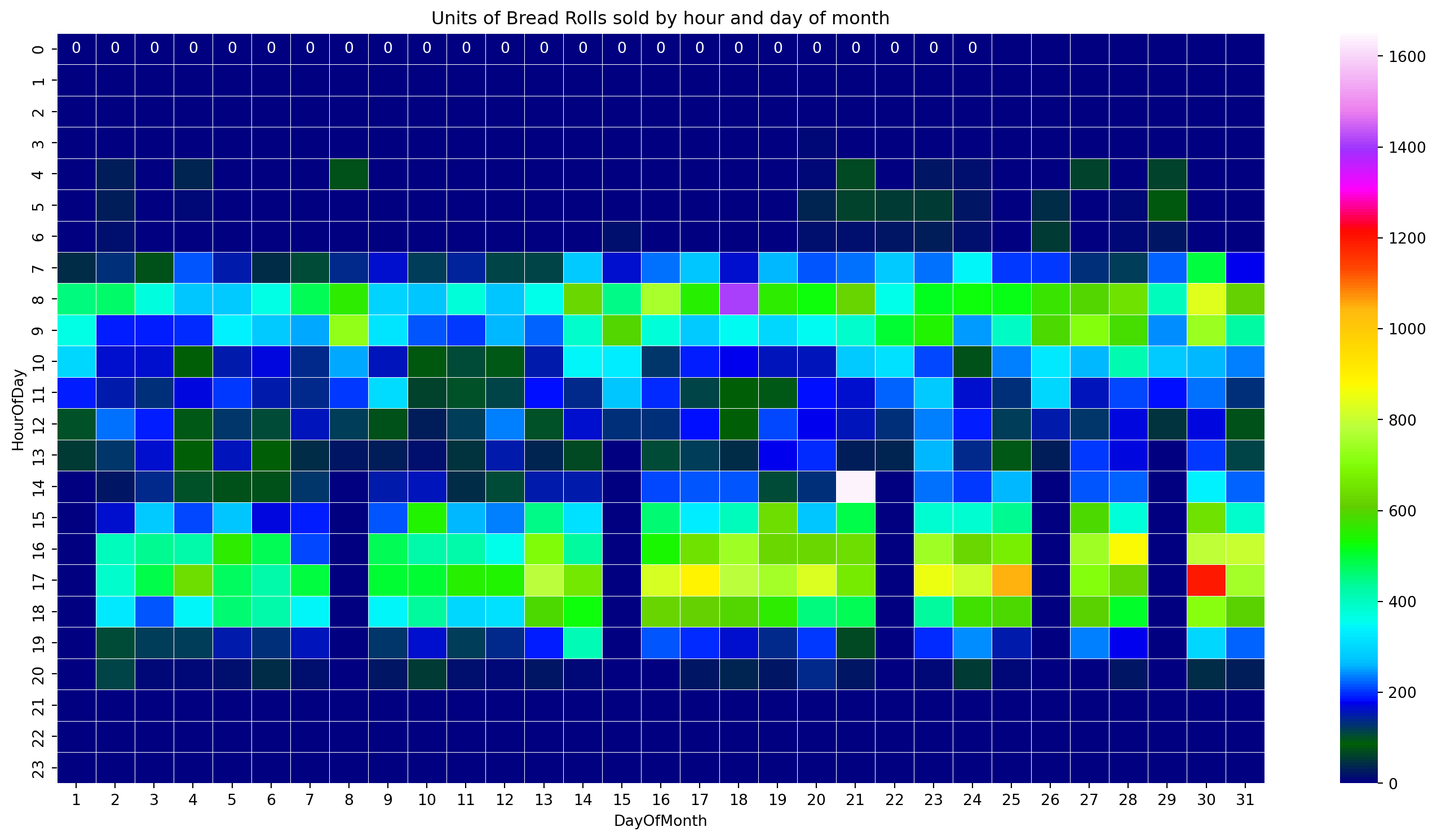
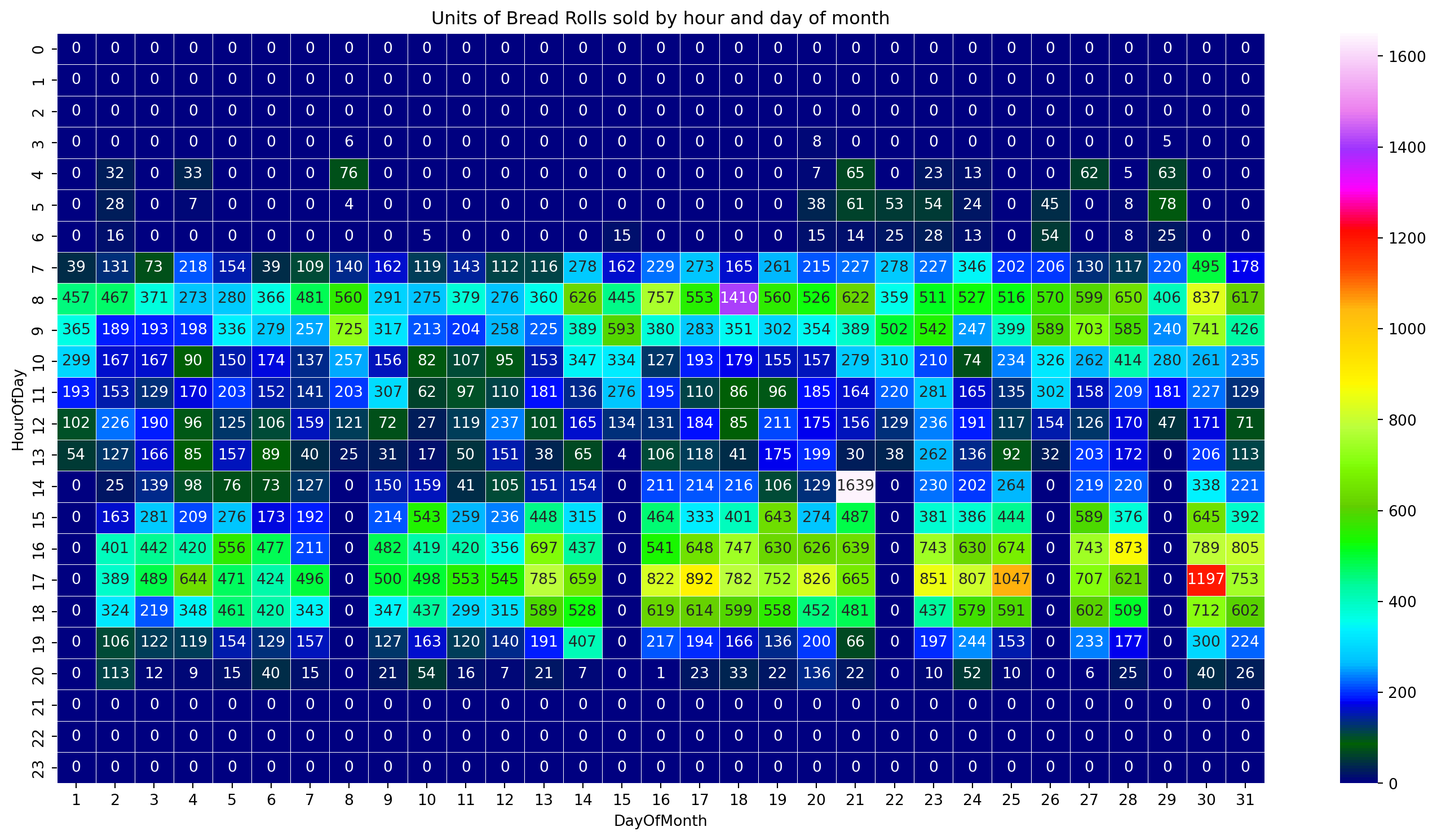
Update changes

diff --git a/docs/23-Projects-Supermarket.html b/docs/23-Projects-Supermarket.html
@@ -348,27 +348,27 @@ Class Discussion
 <section id="reading-and-preprocessing" class="level1">
 <h1>Reading and Preprocessing</h1>
 <p>Let’s read the file with the supermarket transactions data and do some preprocessing tasks. For this task we will use Python <span class="citation" data-cites="python2001">(<a href="#ref-python2001" role="doc-biblioref">Rossum and Jr. 2001</a>)</span>, Pandas <span class="citation" data-cites="pandasmckinney2012">(<a href="#ref-pandasmckinney2012" role="doc-biblioref">McKinney 2012</a>)</span> and Matplotlib <span class="citation" data-cites="matplotlibhunter2007">(<a href="#ref-matplotlibhunter2007" role="doc-biblioref">Hunter 2007</a>)</span> and Seaborn <span class="citation" data-cites="SeabornWaskom2021">(<a href="#ref-SeabornWaskom2021" role="doc-biblioref">Waskom 2021</a>)</span> for visualization. First we import the libraries we need:</p>
-<div id="4d44ece8" class="cell custompython" data-execution_count="1">
+<div id="4ceaf339" class="cell custompython" data-execution_count="1">
 <div class="sourceCode cell-code" id="cb2"><pre class="sourceCode python code-with-copy"><code class="sourceCode python"><span id="cb2-1"><a href="#cb2-1" aria-hidden="true" tabindex="-1"></a><span class="im">import</span> pandas <span class="im">as</span> pd <span class="co"># to represent and process dataframes</span></span>
 <span id="cb2-2"><a href="#cb2-2" aria-hidden="true" tabindex="-1"></a><span class="im">import</span> matplotlib.pyplot <span class="im">as</span> plt <span class="co"># to create some plots and charts</span></span>
 <span id="cb2-3"><a href="#cb2-3" aria-hidden="true" tabindex="-1"></a><span class="im">import</span> seaborn <span class="im">as</span> sns <span class="co"># a different graphics library.</span></span></code><button title="Copy to Clipboard" class="code-copy-button"><i class="bi"></i></button></pre></div>
 </div>
 <p>The type of structure we are dealing with looks like a table or spreadsheet, represented in a file with each row containing fields separated by commas, and it is better represented as a <em>dataframe</em>. Reading a comma-separated value into a dataframe in Python is very easy: we can use a function of the Pandas library to get the file into a data frame, as shown below:</p>
-<div id="8816d814" class="cell custompython" data-execution_count="2">
+<div id="594e4f2f" class="cell custompython" data-execution_count="2">
 <div class="sourceCode cell-code" id="cb3"><pre class="sourceCode python code-with-copy"><code class="sourceCode python"><span id="cb3-1"><a href="#cb3-1" aria-hidden="true" tabindex="-1"></a><span class="co"># Read the data from a file into a dataframe, with proper character encoding</span></span>
 <span id="cb3-2"><a href="#cb3-2" aria-hidden="true" tabindex="-1"></a>supermDF <span class="op">=</span> pd.read_csv(<span class="st">"Resources/Data/SupermarketCSV/transactions.csv"</span>,</span>
 <span id="cb3-3"><a href="#cb3-3" aria-hidden="true" tabindex="-1"></a>                        encoding<span class="op">=</span><span class="st">"iso-8859-1"</span>)</span></code><button title="Copy to Clipboard" class="code-copy-button"><i class="bi"></i></button></pre></div>
 </div>
 <p>The encoding of a text file corresponds to the way characters are stored in a text file. Some tools can identify the encoding automatically, but in some cases the programmer needs to provide it.</p>
 <p>How many records and fields did we just read? The <em>shape</em> of the dataframe can be used to answer this, showing the number of rows and columns.</p>
-<div id="65fe68db" class="cell custompython" data-execution_count="3">
+<div id="d2f9c525" class="cell custompython" data-execution_count="3">
 <div class="sourceCode cell-code" id="cb4"><pre class="sourceCode python code-with-copy"><code class="sourceCode python"><span id="cb4-1"><a href="#cb4-1" aria-hidden="true" tabindex="-1"></a>supermDF.shape</span></code><button title="Copy to Clipboard" class="code-copy-button"><i class="bi"></i></button></pre></div>
 <div class="cell-output cell-output-display" data-execution_count="3">
 <pre><code>(363966, 16)</code></pre>
 </div>
 </div>
 <p>We may need to do some preprocessing for simplicity and convenience. For example, the field <code>Date</code> was read as we will convert the field to a real date/time field.</p>
-<div id="686e0724" class="cell custompython" data-execution_count="4">
+<div id="bd2e2cbe" class="cell custompython" data-execution_count="4">
 <div class="sourceCode cell-code" id="cb6"><pre class="sourceCode python code-with-copy"><code class="sourceCode python"><span id="cb6-1"><a href="#cb6-1" aria-hidden="true" tabindex="-1"></a><span class="co"># Convert the field Date to a string, which is used by pd.to_datetime with a specific</span></span>
 <span id="cb6-2"><a href="#cb6-2" aria-hidden="true" tabindex="-1"></a><span class="co"># format to be converted into an array of datetime object, which is stored in our</span></span>
 <span id="cb6-3"><a href="#cb6-3" aria-hidden="true" tabindex="-1"></a><span class="co"># dataframe using a new column name.</span></span>
@@ -381,7 +381,7 @@ Class Discussion
 <section id="how-many-different-products-does-the-supermarket-sells" class="level2">
 <h2 class="anchored" data-anchor-id="how-many-different-products-does-the-supermarket-sells">How many different products does the supermarket sells?</h2>
 <p>In order to answer this question we would need access to different data: a complete catalogue of the products the supermarket sells. But we can get the answer to <em>how many different products the supermarket sold</em> by looking at the <code>Description</code> field and counting unique values. Here’s how:</p>
-<div id="45cb92c2" class="cell custompython" data-execution_count="5">
+<div id="f6b59c76" class="cell custompython" data-execution_count="5">
 <div class="sourceCode cell-code" id="cb7"><pre class="sourceCode python code-with-copy"><code class="sourceCode python"><span id="cb7-1"><a href="#cb7-1" aria-hidden="true" tabindex="-1"></a><span class="co"># Get the column Description, create a series with the unique values on it, </span></span>
 <span id="cb7-2"><a href="#cb7-2" aria-hidden="true" tabindex="-1"></a><span class="co"># return the length of this series. </span></span>
 <span id="cb7-3"><a href="#cb7-3" aria-hidden="true" tabindex="-1"></a><span class="bu">len</span>(pd.unique(supermDF[<span class="st">'Description'</span>]))</span></code><button title="Copy to Clipboard" class="code-copy-button"><i class="bi"></i></button></pre></div>
@@ -391,7 +391,7 @@ Class Discussion
 </div>
 <p>This one line of code slices the dataframe, selecting only the column/field <code>Description</code> and passes it as an argument to a the function <code>unique</code> of the Pandas library that eliminates all repeated items and returns a list, which then is used as an argument to <code>len</code> that counts the elements on that list.</p>
 <p>Another way to get the number of different products sold by the supermarket is to get a count of occurrences of each item, which can be easily done with a call to <code>value_counts</code> function of a slice of a dataframe:</p>
-<div id="33dd7a47" class="cell custompython" data-execution_count="6">
+<div id="2dea14df" class="cell custompython" data-execution_count="6">
 <div class="sourceCode cell-code" id="cb9"><pre class="sourceCode python code-with-copy"><code class="sourceCode python"><span id="cb9-1"><a href="#cb9-1" aria-hidden="true" tabindex="-1"></a><span class="co"># Show a summary of the counts for all values of the column Description.</span></span>
 <span id="cb9-2"><a href="#cb9-2" aria-hidden="true" tabindex="-1"></a>supermDF[<span class="st">'Description'</span>].value_counts()</span></code><button title="Copy to Clipboard" class="code-copy-button"><i class="bi"></i></button></pre></div>
 <div class="cell-output cell-output-display" data-execution_count="6">
@@ -411,7 +411,7 @@ Name: count, Length: 4791, dtype: int64</code></pre>
 </div>
 </div>
 <p>We can check which are the top ten sellers (by quantity) with:</p>
-<div id="55c98d2a" class="cell custompython" data-execution_count="7">
+<div id="619a488b" class="cell custompython" data-execution_count="7">
 <div class="sourceCode cell-code" id="cb11"><pre class="sourceCode python code-with-copy"><code class="sourceCode python"><span id="cb11-1"><a href="#cb11-1" aria-hidden="true" tabindex="-1"></a><span class="co"># Show the top ten items of the counts for all values of the column Description.</span></span>
 <span id="cb11-2"><a href="#cb11-2" aria-hidden="true" tabindex="-1"></a>supermDF[<span class="st">'Description'</span>].value_counts().head(<span class="dv">10</span>)</span></code><button title="Copy to Clipboard" class="code-copy-button"><i class="bi"></i></button></pre></div>
 <div class="cell-output cell-output-display" data-execution_count="7">
@@ -430,7 +430,7 @@ Name: count, dtype: int64</code></pre>
 </div>
 </div>
 <p>And even filter by quantity using a range:</p>
-<div id="52ff5e1a" class="cell custompython" data-execution_count="8">
+<div id="91efb714" class="cell custompython" data-execution_count="8">
 <div class="sourceCode cell-code" id="cb13"><pre class="sourceCode python code-with-copy"><code class="sourceCode python"><span id="cb13-1"><a href="#cb13-1" aria-hidden="true" tabindex="-1"></a><span class="co"># Store the counts in a series.</span></span>
 <span id="cb13-2"><a href="#cb13-2" aria-hidden="true" tabindex="-1"></a>counts <span class="op">=</span> supermDF[<span class="st">'Description'</span>].value_counts()</span>
 <span id="cb13-3"><a href="#cb13-3" aria-hidden="true" tabindex="-1"></a><span class="co"># Filter those between two values.</span></span>
@@ -474,12 +474,12 @@ Name: count, dtype: int64</code></pre>
 <h2 class="anchored" data-anchor-id="whats-the-average-basket-value">What’s the average basket value?</h2>
 <p>In order to get this information we would need to scan all itens, adding the values for each transaction and calculate the average of these values. But the way that we chose to store the itens makes the first step easier: since all item entries on the dataframe contains information on the transaction it belongs to, we can get all itens where the field <code>itemOrder</code> is one (the first item on that transaction) and use the field <code>TotalDue</code> to get the transaction’s value.</p>
 <p>First we create a subset of our dataframe containing only the first item on the transaction:</p>
-<div id="0723c54e" class="cell custompython" data-execution_count="9">
+<div id="ba4adc7c" class="cell custompython" data-execution_count="9">
 <div class="sourceCode cell-code" id="cb15"><pre class="sourceCode python code-with-copy"><code class="sourceCode python"><span id="cb15-1"><a href="#cb15-1" aria-hidden="true" tabindex="-1"></a><span class="co"># Create a new dataframe with only the first item in each transaction. </span></span>
 <span id="cb15-2"><a href="#cb15-2" aria-hidden="true" tabindex="-1"></a>onlyFirstItems <span class="op">=</span> supermDF.loc[supermDF[<span class="st">'itemOrder'</span>] <span class="op">==</span> <span class="dv">1</span>].copy()</span></code><button title="Copy to Clipboard" class="code-copy-button"><i class="bi"></i></button></pre></div>
 </div>
 <p>Now we can get the average transaction value with:</p>
-<div id="b9df4ab7" class="cell custompython" data-execution_count="10">
+<div id="303b496b" class="cell custompython" data-execution_count="10">
 <div class="sourceCode cell-code" id="cb16"><pre class="sourceCode python code-with-copy"><code class="sourceCode python"><span id="cb16-1"><a href="#cb16-1" aria-hidden="true" tabindex="-1"></a><span class="co"># Prints the mean of all transactions' TotalDue.</span></span>
 <span id="cb16-2"><a href="#cb16-2" aria-hidden="true" tabindex="-1"></a>onlyFirstItems[<span class="st">'TotalDue'</span>].mean()</span></code><button title="Copy to Clipboard" class="code-copy-button"><i class="bi"></i></button></pre></div>
 <div class="cell-output cell-output-display" data-execution_count="10">
@@ -487,7 +487,7 @@ Name: count, dtype: int64</code></pre>
 </div>
 </div>
 <p>We can even have some fun with subsets of the dataframe:</p>
-<div id="d64d15bd" class="cell custompython" data-execution_count="11">
+<div id="277dffe5" class="cell custompython" data-execution_count="11">
 <div class="sourceCode cell-code" id="cb18"><pre class="sourceCode python code-with-copy"><code class="sourceCode python"><span id="cb18-1"><a href="#cb18-1" aria-hidden="true" tabindex="-1"></a><span class="co"># Get the mean of all transactions' TotalDue.</span></span>
 <span id="cb18-2"><a href="#cb18-2" aria-hidden="true" tabindex="-1"></a>ts1 <span class="op">=</span> onlyFirstItems.loc[onlyFirstItems[<span class="st">'StoreID'</span>] <span class="op">==</span> <span class="dv">1</span>,<span class="st">'TotalDue'</span>].mean()</span>
 <span id="cb18-3"><a href="#cb18-3" aria-hidden="true" tabindex="-1"></a>ts2 <span class="op">=</span> onlyFirstItems.loc[onlyFirstItems[<span class="st">'StoreID'</span>] <span class="op">==</span> <span class="dv">2</span>,<span class="st">'TotalDue'</span>].mean()</span>
@@ -500,7 +500,7 @@ Name: count, dtype: int64</code></pre>
 </div>
 </div>
 <p>As expected there isn’t an average value for sales in the store number 4, since it does not exist:</p>
-<div id="67602fbf" class="cell custompython" data-execution_count="12">
+<div id="0a5de97b" class="cell custompython" data-execution_count="12">
 <div class="sourceCode cell-code" id="cb20"><pre class="sourceCode python code-with-copy"><code class="sourceCode python"><span id="cb20-1"><a href="#cb20-1" aria-hidden="true" tabindex="-1"></a><span class="co"># Print a series with all unique values for StoreID.</span></span>
 <span id="cb20-2"><a href="#cb20-2" aria-hidden="true" tabindex="-1"></a>pd.unique(supermDF[<span class="st">'StoreID'</span>])</span></code><button title="Copy to Clipboard" class="code-copy-button"><i class="bi"></i></button></pre></div>
 <div class="cell-output cell-output-display" data-execution_count="12">
@@ -514,7 +514,7 @@ Name: count, dtype: int64</code></pre>
 <p>The code <code>onlyFirstItems.loc[onlyFirstItems['StoreID'] == '0002']</code> returns an empty dataframe. Verify and explain the reason.</p>
 </div>
 <p>We can also plot a simple histogram showing the distribution of the total values for the baskets/transactions. The key command is <code>plt.hist</code> that creates a histogram using the values of the <code>TotalDue</code> field:</p>
-<div id="9487e3d9" class="cell custompython" data-execution_count="13">
+<div id="8d9a98e4" class="cell custompython" data-execution_count="13">
 <div class="sourceCode cell-code" id="cb22"><pre class="sourceCode python code-with-copy"><code class="sourceCode python"><span id="cb22-1"><a href="#cb22-1" aria-hidden="true" tabindex="-1"></a><span class="co"># Plot the histogram of TotalDue with 20 bins.</span></span>
 <span id="cb22-2"><a href="#cb22-2" aria-hidden="true" tabindex="-1"></a>plt.hist(onlyFirstItems[<span class="st">'TotalDue'</span>], bins<span class="op">=</span><span class="dv">20</span>)<span class="op">;</span></span>
 <span id="cb22-3"><a href="#cb22-3" aria-hidden="true" tabindex="-1"></a><span class="co"># Set some plot parameters.</span></span>
@@ -534,7 +534,7 @@ Name: count, dtype: int64</code></pre>
 </div>
 <p>This can’t be right – almost all transactions’ values are clumped together below 25.000 reais and the X axis indicates the existence of a transaction of around half a million reais. This is not consistent with what is expected of sales of a small supermarket.</p>
 <p>Let’s print the top ten transactions by value:</p>
-<div id="14a0077d" class="cell custompython" data-execution_count="14">
+<div id="e5c4dcfe" class="cell custompython" data-execution_count="14">
 <div class="sourceCode cell-code" id="cb23"><pre class="sourceCode python code-with-copy"><code class="sourceCode python"><span id="cb23-1"><a href="#cb23-1" aria-hidden="true" tabindex="-1"></a><span class="co"># Create a list of columns we want to show.</span></span>
 <span id="cb23-2"><a href="#cb23-2" aria-hidden="true" tabindex="-1"></a>fields <span class="op">=</span> [<span class="st">'TransactionID'</span>,<span class="st">'TotalDue'</span>,<span class="st">'TotalPaid'</span>,<span class="st">'Change'</span>,<span class="st">'Status'</span>]</span>
 <span id="cb23-3"><a href="#cb23-3" aria-hidden="true" tabindex="-1"></a><span class="co"># Print the top 10 largest TotalDue values with the fields we chose.</span></span>
@@ -675,7 +675,7 @@ Name: count, dtype: int64</code></pre>
 <p>Are all those transactions paid for with cash?</p>
 </div>
 <p>Let’s recreate the histogram using <code>TotalPaid</code> but with more bins and a log Y axis this time:</p>
-<div id="8573ec90" class="cell custompython" data-execution_count="15">
+<div id="a814a56c" class="cell custompython" data-execution_count="15">
 <div class="sourceCode cell-code" id="cb24"><pre class="sourceCode python code-with-copy"><code class="sourceCode python"><span id="cb24-1"><a href="#cb24-1" aria-hidden="true" tabindex="-1"></a><span class="im">import</span> matplotlib.ticker <span class="im">as</span> ticker <span class="co"># Required to format the Y axis.</span></span>
 <span id="cb24-2"><a href="#cb24-2" aria-hidden="true" tabindex="-1"></a><span class="co"># Plot the histogram of TotalDue with 50 bins.</span></span>
 <span id="cb24-3"><a href="#cb24-3" aria-hidden="true" tabindex="-1"></a>plt.hist(onlyFirstItems[<span class="st">'TotalPaid'</span>], bins<span class="op">=</span><span class="dv">50</span>)<span class="op">;</span></span>
@@ -700,7 +700,7 @@ Name: count, dtype: int64</code></pre>
 </div>
 </div>
 <p>This is better, although we can see that there is still one transaction with value above 800 reais. Let’s take a closer look at this transaction.</p>
-<div id="fefec49c" class="cell custompython" data-execution_count="16">
+<div id="b02d1b57" class="cell custompython" data-execution_count="16">
 <div class="sourceCode cell-code" id="cb25"><pre class="sourceCode python code-with-copy"><code class="sourceCode python"><span id="cb25-1"><a href="#cb25-1" aria-hidden="true" tabindex="-1"></a><span class="co"># Select only some fields for displaying.</span></span>
 <span id="cb25-2"><a href="#cb25-2" aria-hidden="true" tabindex="-1"></a>fields <span class="op">=</span> [<span class="st">'TransactionID'</span>,<span class="st">'Description'</span>,<span class="st">'UnitPrice'</span>,<span class="st">'Quantity'</span>,<span class="st">'Amount'</span>]</span>
 <span id="cb25-3"><a href="#cb25-3" aria-hidden="true" tabindex="-1"></a><span class="co"># Filter the dataframe locating only rows where TotalPaid is &gt;= 800, then sort the</span></span>
@@ -831,7 +831,7 @@ Name: count, dtype: int64</code></pre>
 <h2 class="anchored" data-anchor-id="are-there-patterns-on-the-amounts-paid-by-the-costumers">Are there patterns on the amounts paid by the costumers?</h2>
 <p>How many items our costumers buy in each transaction? Are there patterns or distributions on this amount? Let’s explore!</p>
 <p>First let’s see a histogram of the distribution of the number of items per transaction. In the way our data is organized, we need to infer this number since it is not explicit. To count the number of items per transaction we can group the dataframe by <code>TransactionID</code> and get the number of records in each group:</p>
-<div id="9f95b7ed" class="cell custompython" data-execution_count="17">
+<div id="b843f042" class="cell custompython" data-execution_count="17">
 <div class="sourceCode cell-code" id="cb26"><pre class="sourceCode python code-with-copy"><code class="sourceCode python"><span id="cb26-1"><a href="#cb26-1" aria-hidden="true" tabindex="-1"></a><span class="co"># Group records by TransactionID, select TransactionID to extract a metric (size).</span></span>
 <span id="cb26-2"><a href="#cb26-2" aria-hidden="true" tabindex="-1"></a>itemsIT <span class="op">=</span> supermDF.groupby(<span class="st">'TransactionID'</span>)[<span class="st">'TransactionID'</span>].transform(<span class="st">'size'</span>)</span>
 <span id="cb26-3"><a href="#cb26-3" aria-hidden="true" tabindex="-1"></a><span class="co"># Add it as a new column.</span></span>
@@ -840,7 +840,7 @@ Name: count, dtype: int64</code></pre>
 <span id="cb26-6"><a href="#cb26-6" aria-hidden="true" tabindex="-1"></a>onlyFirstItems <span class="op">=</span> supermDF.loc[supermDF[<span class="st">'itemOrder'</span>] <span class="op">==</span> <span class="dv">1</span>].copy()</span></code><button title="Copy to Clipboard" class="code-copy-button"><i class="bi"></i></button></pre></div>
 </div>
 <p>Then we can do a histogram to show the distribution of items per transaction:</p>
-<div id="abd90027" class="cell custompython" data-execution_count="18">
+<div id="ffafcb62" class="cell custompython" data-execution_count="18">
 <div class="sourceCode cell-code" id="cb27"><pre class="sourceCode python code-with-copy"><code class="sourceCode python"><span id="cb27-1"><a href="#cb27-1" aria-hidden="true" tabindex="-1"></a><span class="co"># Plot the histogram of TotalDue with 50 bins.</span></span>
 <span id="cb27-2"><a href="#cb27-2" aria-hidden="true" tabindex="-1"></a>plt.hist(onlyFirstItems[<span class="st">'itemsInTransaction'</span>], bins<span class="op">=</span><span class="dv">50</span>)<span class="op">;</span></span>
 <span id="cb27-3"><a href="#cb27-3" aria-hidden="true" tabindex="-1"></a><span class="co"># Set some plot parameters.</span></span>
@@ -871,7 +871,7 @@ Name: count, dtype: int64</code></pre>
 <p>To count the number of items per transaction we could also get the maximum value for each <code>itemOrder</code> with the dataframe grouped by <code>TransactionID</code>. Try it!</p>
 </div>
 <p>We expect a sort of correlation between the number of items in a transaction and its total cost (<code>TotalPaid</code>). Let’s do a quick XY (or scatter) plot to verify this:</p>
-<div id="dc89e4c5" class="cell custompython" data-execution_count="19">
+<div id="9f0ed864" class="cell custompython" data-execution_count="19">
 <div class="sourceCode cell-code" id="cb28"><pre class="sourceCode python code-with-copy"><code class="sourceCode python"><span id="cb28-1"><a href="#cb28-1" aria-hidden="true" tabindex="-1"></a><span class="co"># Create the scatter plot with X=itemsInTransaction abnd Y=TotalPaid</span></span>
 <span id="cb28-2"><a href="#cb28-2" aria-hidden="true" tabindex="-1"></a>plt.scatter(onlyFirstItems[<span class="st">'itemsInTransaction'</span>],onlyFirstItems[<span class="st">'TotalPaid'</span>])</span>
 <span id="cb28-3"><a href="#cb28-3" aria-hidden="true" tabindex="-1"></a><span class="co"># Set title and axes labels.</span></span>
@@ -889,7 +889,7 @@ Name: count, dtype: int64</code></pre>
 </div>
 </div>
 <p>Let’s enhance the plot with a linear regression line and confidence interval. The seaborn <span class="citation" data-cites="SeabornWaskom2021">(<a href="#ref-SeabornWaskom2021" role="doc-biblioref">Waskom 2021</a>)</span> library has a simple method for that:</p>
-<div id="404ce1ff" class="cell custompython" data-execution_count="20">
+<div id="7f02c6e1" class="cell custompython" data-execution_count="20">
 <div class="sourceCode cell-code" id="cb29"><pre class="sourceCode python code-with-copy"><code class="sourceCode python"><span id="cb29-1"><a href="#cb29-1" aria-hidden="true" tabindex="-1"></a><span class="co"># Create the X and Y series (to make next commands shorter).</span></span>
 <span id="cb29-2"><a href="#cb29-2" aria-hidden="true" tabindex="-1"></a>X <span class="op">=</span> onlyFirstItems[<span class="st">"itemsInTransaction"</span>]</span>
 <span id="cb29-3"><a href="#cb29-3" aria-hidden="true" tabindex="-1"></a>Y <span class="op">=</span> onlyFirstItems[<span class="st">"TotalPaid"</span>]</span>
@@ -917,25 +917,23 @@ Name: count, dtype: int64</code></pre>
 <p>The regression line may be heavily influenced by the transactions with only a few items or with a low paymend due. Redo the plot but using only transactions with total above a cutoff, or with transactions with more than a specific number of items, or both.</p>
 </div>
 <p>Are those transactions paid by cash? Can we see any pattern or outlier on the payment method? Seaborn can use a discrete column as a color to help discriminate the points, let’s color the plot points using the payment method:</p>
-<div id="e96c2591" class="cell custompython" data-execution_count="21">
-<div class="sourceCode cell-code" id="cb30"><pre class="sourceCode python code-with-copy"><code class="sourceCode python"><span id="cb30-1"><a href="#cb30-1" aria-hidden="true" tabindex="-1"></a><span class="co"># Set the number of figure in inches.</span></span>
-<span id="cb30-2"><a href="#cb30-2" aria-hidden="true" tabindex="-1"></a>plt.figure(figsize<span class="op">=</span>(<span class="dv">12</span>, <span class="dv">8</span>)) </span>
-<span id="cb30-3"><a href="#cb30-3" aria-hidden="true" tabindex="-1"></a><span class="co"># Create the X, Y and points' color series (to make next commands shorter).</span></span>
-<span id="cb30-4"><a href="#cb30-4" aria-hidden="true" tabindex="-1"></a>X <span class="op">=</span> onlyFirstItems[<span class="st">"itemsInTransaction"</span>]</span>
-<span id="cb30-5"><a href="#cb30-5" aria-hidden="true" tabindex="-1"></a>Y <span class="op">=</span> onlyFirstItems[<span class="st">"TotalPaid"</span>]</span>
-<span id="cb30-6"><a href="#cb30-6" aria-hidden="true" tabindex="-1"></a>PM <span class="op">=</span> onlyFirstItems[<span class="st">"PaymentMethod"</span>]</span>
-<span id="cb30-7"><a href="#cb30-7" aria-hidden="true" tabindex="-1"></a><span class="co"># Plot a regression plot with transparency in the data points.</span></span>
-<span id="cb30-8"><a href="#cb30-8" aria-hidden="true" tabindex="-1"></a>sns.scatterplot(x<span class="op">=</span>X,y<span class="op">=</span>Y,hue<span class="op">=</span>PM)</span>
-<span id="cb30-9"><a href="#cb30-9" aria-hidden="true" tabindex="-1"></a><span class="co"># Set title and axes labels</span></span>
-<span id="cb30-10"><a href="#cb30-10" aria-hidden="true" tabindex="-1"></a>plt.title(<span class="st">'Scatter Plot of Number of Items in Cart versus Total Paid'</span>)</span>
-<span id="cb30-11"><a href="#cb30-11" aria-hidden="true" tabindex="-1"></a>plt.xlabel(<span class="st">'Number of Items in Cart'</span>)</span>
-<span id="cb30-12"><a href="#cb30-12" aria-hidden="true" tabindex="-1"></a>plt.ylabel(<span class="st">'Total Paid'</span>)</span>
-<span id="cb30-13"><a href="#cb30-13" aria-hidden="true" tabindex="-1"></a><span class="co"># Show the plot.</span></span>
-<span id="cb30-14"><a href="#cb30-14" aria-hidden="true" tabindex="-1"></a>plt.show()</span></code><button title="Copy to Clipboard" class="code-copy-button"><i class="bi"></i></button></pre></div>
+<div id="96497fd0" class="cell custompython" data-execution_count="21">
+<div class="sourceCode cell-code" id="cb30"><pre class="sourceCode python code-with-copy"><code class="sourceCode python"><span id="cb30-1"><a href="#cb30-1" aria-hidden="true" tabindex="-1"></a><span class="co"># Create the X, Y and points' color series (to make next commands shorter).</span></span>
+<span id="cb30-2"><a href="#cb30-2" aria-hidden="true" tabindex="-1"></a>X <span class="op">=</span> onlyFirstItems[<span class="st">"itemsInTransaction"</span>]</span>
+<span id="cb30-3"><a href="#cb30-3" aria-hidden="true" tabindex="-1"></a>Y <span class="op">=</span> onlyFirstItems[<span class="st">"TotalPaid"</span>]</span>
+<span id="cb30-4"><a href="#cb30-4" aria-hidden="true" tabindex="-1"></a>PM <span class="op">=</span> onlyFirstItems[<span class="st">"PaymentMethod"</span>]</span>
+<span id="cb30-5"><a href="#cb30-5" aria-hidden="true" tabindex="-1"></a><span class="co"># Plot a regression plot with transparency in the data points.</span></span>
+<span id="cb30-6"><a href="#cb30-6" aria-hidden="true" tabindex="-1"></a>sns.scatterplot(x<span class="op">=</span>X,y<span class="op">=</span>Y,hue<span class="op">=</span>PM)</span>
+<span id="cb30-7"><a href="#cb30-7" aria-hidden="true" tabindex="-1"></a><span class="co"># Set title and axes labels</span></span>
+<span id="cb30-8"><a href="#cb30-8" aria-hidden="true" tabindex="-1"></a>plt.title(<span class="st">'Scatter Plot of Number of Items in Cart versus Total Paid'</span>)</span>
+<span id="cb30-9"><a href="#cb30-9" aria-hidden="true" tabindex="-1"></a>plt.xlabel(<span class="st">'Number of Items in Cart'</span>)</span>
+<span id="cb30-10"><a href="#cb30-10" aria-hidden="true" tabindex="-1"></a>plt.ylabel(<span class="st">'Total Paid'</span>)</span>
+<span id="cb30-11"><a href="#cb30-11" aria-hidden="true" tabindex="-1"></a><span class="co"># Show the plot.</span></span>
+<span id="cb30-12"><a href="#cb30-12" aria-hidden="true" tabindex="-1"></a>plt.show()</span></code><button title="Copy to Clipboard" class="code-copy-button"><i class="bi"></i></button></pre></div>
 <div class="cell-output cell-output-display">
 <div>
 <figure class="figure">
-<p><img src="23-Projects-Supermarket_files/figure-html/cell-22-output-1.png" width="965" height="671" class="figure-img"></p>
+<p><img src="23-Projects-Supermarket_files/figure-html/cell-22-output-1.png" width="593" height="449" class="figure-img"></p>
 </figure>
 </div>
 </div>
@@ -947,7 +945,7 @@ Name: count, dtype: int64</code></pre>
 <p>There is a payment category without a title. See how many transactions are in this situation and propose a way to deal with this data.</p>
 </div>
 <p>That wasn’t very useful, since there are many options of payments and we would like to aggregate them. Let’s create a new column on our dataframe to represent a simplified payment method.</p>
-<div id="f4eda6e2" class="cell custompython" data-execution_count="22">
+<div id="f6f1ac96" class="cell custompython" data-execution_count="22">
 <div class="sourceCode cell-code" id="cb31"><pre class="sourceCode python code-with-copy"><code class="sourceCode python"><span id="cb31-1"><a href="#cb31-1" aria-hidden="true" tabindex="-1"></a><span class="co"># A simple function that simply the categories of payment method.</span></span>
 <span id="cb31-2"><a href="#cb31-2" aria-hidden="true" tabindex="-1"></a><span class="kw">def</span> simplifyPayment(paymethod):</span>
 <span id="cb31-3"><a href="#cb31-3" aria-hidden="true" tabindex="-1"></a>    <span class="cf">if</span> paymethod.startswith(<span class="st">"Dinheiro"</span>):</span>
@@ -963,7 +961,7 @@ Name: count, dtype: int64</code></pre>
 <span id="cb31-13"><a href="#cb31-13" aria-hidden="true" tabindex="-1"></a>    onlyFirstItems[<span class="st">'PaymentMethod'</span>].<span class="bu">apply</span>(simplifyPayment)      </span></code><button title="Copy to Clipboard" class="code-copy-button"><i class="bi"></i></button></pre></div>
 </div>
 <p>With this new column we can plot a more informative scatter plot:</p>
-<div id="3d00c6a9" class="cell custompython" data-execution_count="23">
+<div id="e05e1727" class="cell custompython" data-execution_count="23">
 <div class="sourceCode cell-code" id="cb32"><pre class="sourceCode python code-with-copy"><code class="sourceCode python"><span id="cb32-1"><a href="#cb32-1" aria-hidden="true" tabindex="-1"></a><span class="co"># We need a palette - a mapping from names to colors.</span></span>
 <span id="cb32-2"><a href="#cb32-2" aria-hidden="true" tabindex="-1"></a>color_mapping <span class="op">=</span> {</span>
 <span id="cb32-3"><a href="#cb32-3" aria-hidden="true" tabindex="-1"></a>    <span class="st">'Dinheiro'</span>: <span class="st">'yellowgreen'</span>,</span>
@@ -971,29 +969,27 @@ Name: count, dtype: int64</code></pre>
 <span id="cb32-5"><a href="#cb32-5" aria-hidden="true" tabindex="-1"></a>    <span class="st">'Cheque'</span>  : <span class="st">'magenta'</span>,</span>
 <span id="cb32-6"><a href="#cb32-6" aria-hidden="true" tabindex="-1"></a>    <span class="st">'Outros'</span>  : <span class="st">'lightgrey'</span></span>
 <span id="cb32-7"><a href="#cb32-7" aria-hidden="true" tabindex="-1"></a>}</span>
-<span id="cb32-8"><a href="#cb32-8" aria-hidden="true" tabindex="-1"></a><span class="co"># Set the number of figure in inches.</span></span>
-<span id="cb32-9"><a href="#cb32-9" aria-hidden="true" tabindex="-1"></a>plt.figure(figsize<span class="op">=</span>(<span class="dv">12</span>, <span class="dv">8</span>)) </span>
-<span id="cb32-10"><a href="#cb32-10" aria-hidden="true" tabindex="-1"></a><span class="co"># Create the X, Y and points' color series (to make next commands shorter).</span></span>
-<span id="cb32-11"><a href="#cb32-11" aria-hidden="true" tabindex="-1"></a>X <span class="op">=</span> onlyFirstItems[<span class="st">"itemsInTransaction"</span>]</span>
-<span id="cb32-12"><a href="#cb32-12" aria-hidden="true" tabindex="-1"></a>Y <span class="op">=</span> onlyFirstItems[<span class="st">"TotalPaid"</span>]</span>
-<span id="cb32-13"><a href="#cb32-13" aria-hidden="true" tabindex="-1"></a>col <span class="op">=</span> onlyFirstItems[<span class="st">"SimplifiedPaymentMethod"</span>]</span>
-<span id="cb32-14"><a href="#cb32-14" aria-hidden="true" tabindex="-1"></a><span class="co"># Plot a scatter plot with the data points and the new palette.</span></span>
-<span id="cb32-15"><a href="#cb32-15" aria-hidden="true" tabindex="-1"></a>sns.scatterplot(x<span class="op">=</span><span class="st">'itemsInTransaction'</span>, y<span class="op">=</span><span class="st">'TotalPaid'</span>, <span class="op">\</span></span>
-<span id="cb32-16"><a href="#cb32-16" aria-hidden="true" tabindex="-1"></a>    hue<span class="op">=</span><span class="st">'SimplifiedPaymentMethod'</span>,<span class="op">\</span></span>
-<span id="cb32-17"><a href="#cb32-17" aria-hidden="true" tabindex="-1"></a>    s<span class="op">=</span><span class="dv">40</span>,data<span class="op">=</span>onlyFirstItems,palette<span class="op">=</span>color_mapping)</span>
-<span id="cb32-18"><a href="#cb32-18" aria-hidden="true" tabindex="-1"></a><span class="co"># Set title and axes labels</span></span>
-<span id="cb32-19"><a href="#cb32-19" aria-hidden="true" tabindex="-1"></a>plt.title(<span class="st">'Scatter Plot of Number of Items in Cart versus Total Paid'</span>)</span>
-<span id="cb32-20"><a href="#cb32-20" aria-hidden="true" tabindex="-1"></a>plt.xlabel(<span class="st">'Number of Items in Cart'</span>)</span>
-<span id="cb32-21"><a href="#cb32-21" aria-hidden="true" tabindex="-1"></a>plt.ylabel(<span class="st">'Total Paid'</span>)</span>
-<span id="cb32-22"><a href="#cb32-22" aria-hidden="true" tabindex="-1"></a><span class="co"># Change the title of the legend and the marker scale.</span></span>
-<span id="cb32-23"><a href="#cb32-23" aria-hidden="true" tabindex="-1"></a>ax <span class="op">=</span> plt.gca()</span>
-<span id="cb32-24"><a href="#cb32-24" aria-hidden="true" tabindex="-1"></a>ax.legend(title<span class="op">=</span><span class="st">'Payment Method'</span>,markerscale<span class="op">=</span><span class="dv">2</span>)</span>
-<span id="cb32-25"><a href="#cb32-25" aria-hidden="true" tabindex="-1"></a><span class="co"># Show the plot.</span></span>
-<span id="cb32-26"><a href="#cb32-26" aria-hidden="true" tabindex="-1"></a>plt.show()</span></code><button title="Copy to Clipboard" class="code-copy-button"><i class="bi"></i></button></pre></div>
+<span id="cb32-8"><a href="#cb32-8" aria-hidden="true" tabindex="-1"></a><span class="co"># Create the X, Y and points' color series (to make next commands shorter).</span></span>
+<span id="cb32-9"><a href="#cb32-9" aria-hidden="true" tabindex="-1"></a>X <span class="op">=</span> onlyFirstItems[<span class="st">"itemsInTransaction"</span>]</span>
+<span id="cb32-10"><a href="#cb32-10" aria-hidden="true" tabindex="-1"></a>Y <span class="op">=</span> onlyFirstItems[<span class="st">"TotalPaid"</span>]</span>
+<span id="cb32-11"><a href="#cb32-11" aria-hidden="true" tabindex="-1"></a>col <span class="op">=</span> onlyFirstItems[<span class="st">"SimplifiedPaymentMethod"</span>]</span>
+<span id="cb32-12"><a href="#cb32-12" aria-hidden="true" tabindex="-1"></a><span class="co"># Plot a scatter plot with the data points and the new palette.</span></span>
+<span id="cb32-13"><a href="#cb32-13" aria-hidden="true" tabindex="-1"></a>sns.scatterplot(x<span class="op">=</span><span class="st">'itemsInTransaction'</span>, y<span class="op">=</span><span class="st">'TotalPaid'</span>, <span class="op">\</span></span>
+<span id="cb32-14"><a href="#cb32-14" aria-hidden="true" tabindex="-1"></a>    hue<span class="op">=</span><span class="st">'SimplifiedPaymentMethod'</span>,<span class="op">\</span></span>
+<span id="cb32-15"><a href="#cb32-15" aria-hidden="true" tabindex="-1"></a>    s<span class="op">=</span><span class="dv">40</span>,data<span class="op">=</span>onlyFirstItems,palette<span class="op">=</span>color_mapping)</span>
+<span id="cb32-16"><a href="#cb32-16" aria-hidden="true" tabindex="-1"></a><span class="co"># Set title and axes labels</span></span>
+<span id="cb32-17"><a href="#cb32-17" aria-hidden="true" tabindex="-1"></a>plt.title(<span class="st">'Scatter Plot of Number of Items in Cart versus Total Paid'</span>)</span>
+<span id="cb32-18"><a href="#cb32-18" aria-hidden="true" tabindex="-1"></a>plt.xlabel(<span class="st">'Number of Items in Cart'</span>)</span>
+<span id="cb32-19"><a href="#cb32-19" aria-hidden="true" tabindex="-1"></a>plt.ylabel(<span class="st">'Total Paid'</span>)</span>
+<span id="cb32-20"><a href="#cb32-20" aria-hidden="true" tabindex="-1"></a><span class="co"># Change the title of the legend and the marker scale.</span></span>
+<span id="cb32-21"><a href="#cb32-21" aria-hidden="true" tabindex="-1"></a>ax <span class="op">=</span> plt.gca()</span>
+<span id="cb32-22"><a href="#cb32-22" aria-hidden="true" tabindex="-1"></a>ax.legend(title<span class="op">=</span><span class="st">'Payment Method'</span>,markerscale<span class="op">=</span><span class="dv">2</span>)</span>
+<span id="cb32-23"><a href="#cb32-23" aria-hidden="true" tabindex="-1"></a><span class="co"># Show the plot.</span></span>
+<span id="cb32-24"><a href="#cb32-24" aria-hidden="true" tabindex="-1"></a>plt.show()</span></code><button title="Copy to Clipboard" class="code-copy-button"><i class="bi"></i></button></pre></div>
 <div class="cell-output cell-output-display">
 <div>
 <figure class="figure">
-<p><img src="23-Projects-Supermarket_files/figure-html/cell-24-output-1.png" width="965" height="671" class="figure-img"></p>
+<p><img src="23-Projects-Supermarket_files/figure-html/cell-24-output-1.png" width="593" height="449" class="figure-img"></p>
 </figure>
 </div>
 </div>
@@ -1016,7 +1012,7 @@ Name: count, dtype: int64</code></pre>
 <h2 class="anchored" data-anchor-id="are-there-temporal-patterns-on-the-sales-data">Are there temporal patterns on the sales data?</h2>
 <p>We can use EDA to investigate several different aspects of the data. Let’s consider the sale of a particular item, the most sold, <code>"PAO FRANCES           "</code>. Is there a temporal pattern on its sale? We can answer that with a two-dimensional histogram that shows the amount of units sold by day and time.</p>
 <p>First let’s create a subset of the data containing only the item in question. From this subset let’s also keep only the relevant fields. Let’s also create columns for day of the month and time of the day:</p>
-<div id="9e29ce83" class="cell custompython" data-execution_count="24">
+<div id="11451172" class="cell custompython" data-execution_count="24">
 <div class="sourceCode cell-code" id="cb33"><pre class="sourceCode python code-with-copy"><code class="sourceCode python"><span id="cb33-1"><a href="#cb33-1" aria-hidden="true" tabindex="-1"></a><span class="co"># Get only items that are equal to "PAO FRANCES           "</span></span>
 <span id="cb33-2"><a href="#cb33-2" aria-hidden="true" tabindex="-1"></a>onlyBreadRolls <span class="op">=</span> supermDF.loc[supermDF[<span class="st">'Description'</span>] <span class="op">==</span> <span class="st">"PAO FRANCES           "</span>]</span>
 <span id="cb33-3"><a href="#cb33-3" aria-hidden="true" tabindex="-1"></a><span class="co"># Select only some of the columns.</span></span>
@@ -1027,7 +1023,7 @@ Name: count, dtype: int64</code></pre>
 <span id="cb33-8"><a href="#cb33-8" aria-hidden="true" tabindex="-1"></a>onlyBreadRolls[<span class="st">'HourOfDay'</span>] <span class="op">=</span> onlyBreadRolls[<span class="st">'DateTime'</span>].dt.hour</span></code><button title="Copy to Clipboard" class="code-copy-button"><i class="bi"></i></button></pre></div>
 </div>
 <p>With this dataframe we can create the two-dimensional histogram, which is done by counting all values for each combination of the fields <code>DayOfMonth</code> and <code>HourOfDay</code> (see <a href="https://stackoverflow.com/questions/56360610/sum-column-based-on-another-column-in-pandas-dataframe">Sum column based on another column in Pandas DataFrame</a>).</p>
-<div id="e6ca6261" class="cell custompython" data-execution_count="25">
+<div id="9541a6dc" class="cell custompython" data-execution_count="25">
 <div class="sourceCode cell-code" id="cb34"><pre class="sourceCode python code-with-copy"><code class="sourceCode python"><span id="cb34-1"><a href="#cb34-1" aria-hidden="true" tabindex="-1"></a><span class="co"># Sum the amounts for each combination of DayOfMonth and HourOfDay.</span></span>
 <span id="cb34-2"><a href="#cb34-2" aria-hidden="true" tabindex="-1"></a>histoFB <span class="op">=</span> onlyBreadRolls.groupby([<span class="st">"DayOfMonth"</span>,<span class="st">"HourOfDay"</span>]).Quantity.<span class="bu">sum</span>().reset_index() </span></code><button title="Copy to Clipboard" class="code-copy-button"><i class="bi"></i></button></pre></div>
 </div>
@@ -1039,7 +1035,7 @@ Name: count, dtype: int64</code></pre>
 <p>Print the contents of <code>histoFB</code> to understand better what was created.</p>
 </div>
 <p>The results can be used to create a heat map (a good visual representation for a two-dimensional histogram) but empty cells will not be displayed. To create a better visualization we can pad the two-dimensional so all possible combinations of <code>DayOfMonth</code> and <code>HourOfDay</code> with the non-occurring combinations filled with zeros (See <a href="https://stackoverflow.com/questions/52446571/creating-a-rectangular-heatmap-from-two-columns-of-a-pandas-dataframe">Creating a rectangular Heatmap from two columns of a Pandas dataframe</a>, <a href="https://www.statology.org/pandas-pivot-table-replace-nan-with-0/">Pandas: How to Replace NaN Values in Pivot Table with Zeros</a>, <a href="https://pandas.pydata.org/pandas-docs/stable/reference/api/pandas.DataFrame.reindex.html">pandas.DataFrame.reindex</a>).</p>
-<div id="d0bdceae" class="cell custompython" data-execution_count="26">
+<div id="4b026eb2" class="cell custompython" data-execution_count="26">
 <div class="sourceCode cell-code" id="cb35"><pre class="sourceCode python code-with-copy"><code class="sourceCode python"><span id="cb35-1"><a href="#cb35-1" aria-hidden="true" tabindex="-1"></a><span class="co"># Reorders the two-dimensional histogram as a matrix-like dataframe.</span></span>
 <span id="cb35-2"><a href="#cb35-2" aria-hidden="true" tabindex="-1"></a>hmap <span class="op">=</span> histoFB.pivot(index<span class="op">=</span><span class="st">"HourOfDay"</span>, columns<span class="op">=</span><span class="st">"DayOfMonth"</span>, values<span class="op">=</span><span class="st">"Quantity"</span>)</span>
 <span id="cb35-3"><a href="#cb35-3" aria-hidden="true" tabindex="-1"></a><span class="co"># Use those indexes for the row and column indexes.</span></span>
@@ -1049,7 +1045,7 @@ Name: count, dtype: int64</code></pre>
 <span id="cb35-7"><a href="#cb35-7" aria-hidden="true" tabindex="-1"></a>hmap <span class="op">=</span> hmap.reindex(index<span class="op">=</span>hours).reindex(columns<span class="op">=</span>days).fillna(<span class="dv">0</span>)</span></code><button title="Copy to Clipboard" class="code-copy-button"><i class="bi"></i></button></pre></div>
 </div>
 <p>Now that we have our well-formed two-dimensional dataframe we can plot it as a heat map.</p>
-<div id="cbf61a8b" class="cell custompython" data-execution_count="27">
+<div id="cafbd897" class="cell custompython" data-execution_count="27">
 <div class="sourceCode cell-code" id="cb36"><pre class="sourceCode python code-with-copy"><code class="sourceCode python"><span id="cb36-1"><a href="#cb36-1" aria-hidden="true" tabindex="-1"></a><span class="co"># Set the size, title and labels of the plot.</span></span>
 <span id="cb36-2"><a href="#cb36-2" aria-hidden="true" tabindex="-1"></a>plt.figure(figsize<span class="op">=</span>(<span class="dv">18</span>, <span class="dv">9</span>)) </span>
 <span id="cb36-3"><a href="#cb36-3" aria-hidden="true" tabindex="-1"></a>plt.title(<span class="st">'Units of Bread Rolls sold by hour and day of month'</span>)</span>
